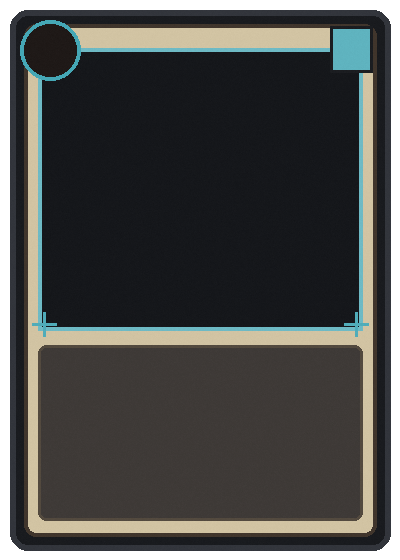
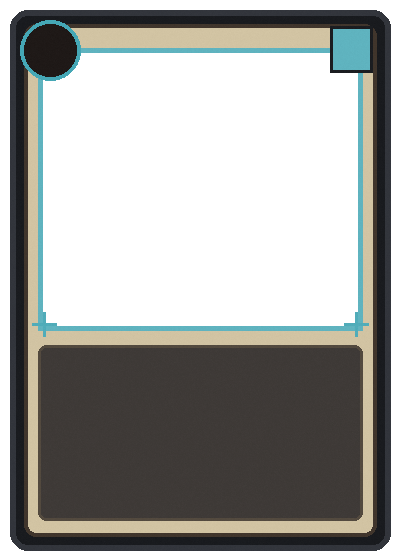
全面修复卡框透明窗口使图标100%显现/角色Z-Index分层消除发虚透明/敌方攻击深度前冲至身前接触点

diff --git a/tools/generate_enhanced_art_assets.py b/tools/generate_enhanced_art_assets.py
@@ -226,8 +226,9 @@ def generate_card_frames():
         # Inner worn parchment cutout (内嵌旧符纸区域)
         draw.rounded_rectangle([(24, 24), (376, 536)], radius=12, fill=(215, 200, 165, 255), outline=(60, 48, 38, 255), width=4)
         
-        # Illustration window frame (卡面插画留空框)
-        draw.rectangle([(38, 48), (362, 330)], fill=(14, 16, 20, 255), outline=(*color_rgb, 200), width=4)
+        # Transparent cutout for card illustration window (透明插画透视窗口)
+        # We clear the alpha inside the illustration window (38, 48) to (362, 330)
+        draw.rectangle([(38, 48), (362, 330)], fill=(0, 0, 0, 0), outline=(*color_rgb, 220), width=5)
         
         # Cinnabar/Spectral decorative corner runes (四角符文锁边)
         for cx, cy in [(44, 54), (356, 54), (44, 324), (356, 324)]:
